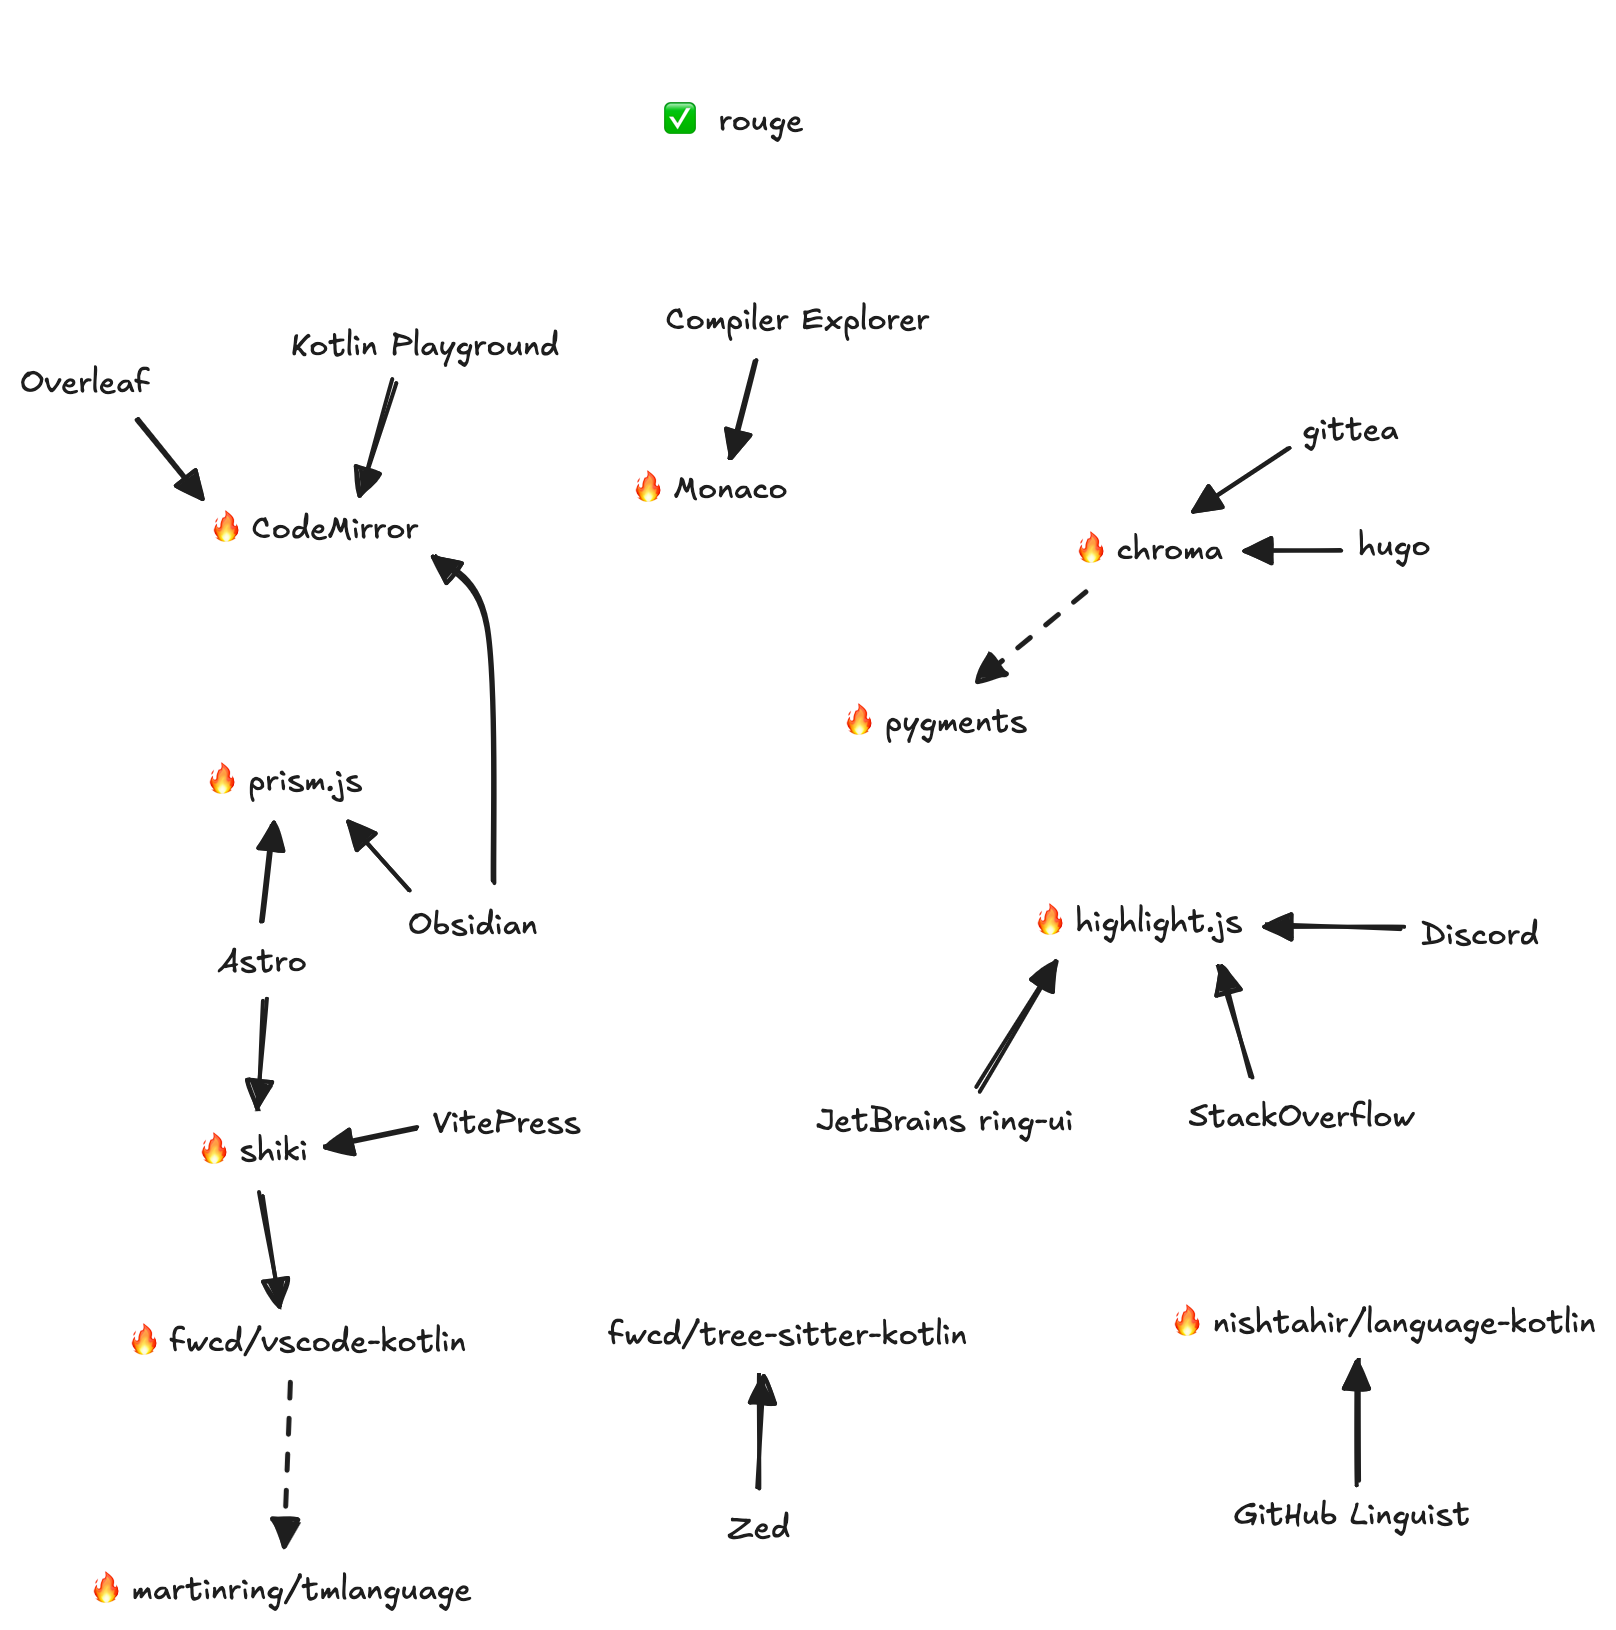
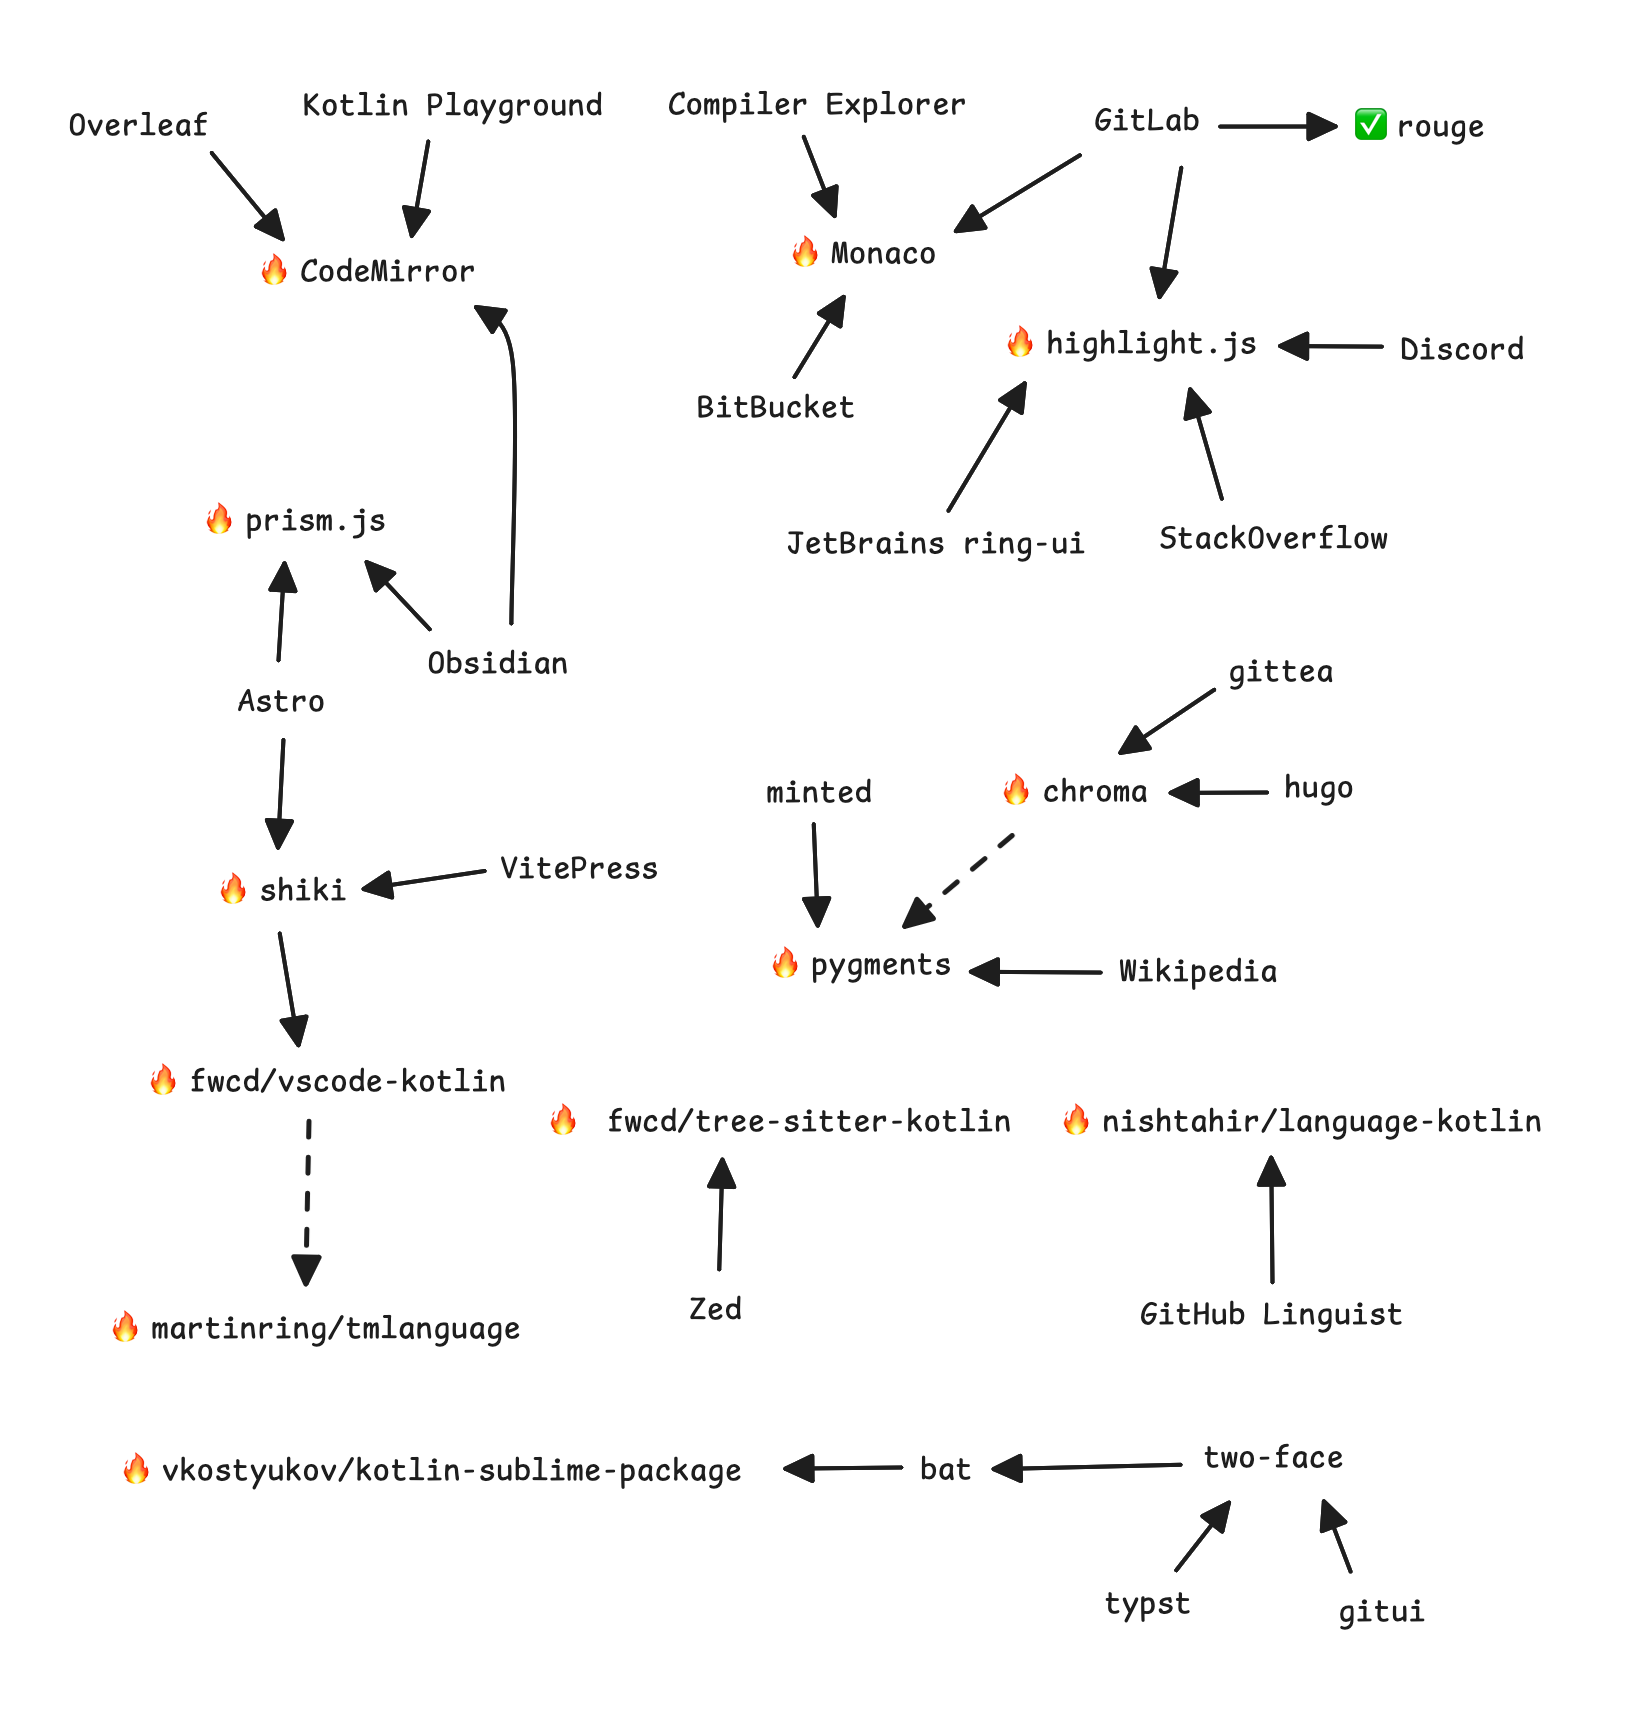
Publish kotlin post

diff --git a/posts/50-shades-of-kotlin/post.md b/posts/50-shades-of-kotlin/post.md
@@ -1,16 +1,17 @@
 ---
 title: 50uL Shades of Kotlin: Why your numbers long for color
-date: 2025-09-04
+date: 2025-09-09
 image: some_image_for_social_preview.png
 description: This is just a new post.
-draft: true
 ---
 
 Recently I was investigating some bug in my branch of the Kotlin compiler and suddenly I had a hunch that my code probably was confused by some inlining. So to quickly verify that idea, my muscle memory rushed me to the already open tab of [*Compiler Explorer*](https://godbolt.org/).
 
+> **🦜 Chirpy the Parrot:** Compiler Explorer (formerly Godbolt) is a tool that let's you try out different compilers and inspect the assembly, JVM Bytecode etc that they produce.
+
 So I pasted the code, Kotlin target already preselected from a long forgotten past experiment and – *Huh*, Compiler Explorer doesn't correctly highlight my code.
 
-That's weird, the code is correct, the compiler ran, I see the bytecode that confirms that inlining takes place which will be a cause for many future headaches but I already don't care about that anymore. Why doesn't Godbolt correctly highlight `3uL`?
+That's weird, the code is correct, the compiler ran, I see the bytecode that confirms that inlining takes place which will be a cause for many future headaches but I already don't care about that anymore. Why doesn't Compiler Explorer correctly highlight `3uL`?
 
 Well at least there is still the trusty [Kotlin Playground](https://play.kotlinlang.org/), let's paste it in there and voilà – _WHAT?_ Even that doesn't highlight the suffix?
 
@@ -77,7 +78,7 @@ val fixned = 123l   // Error: Use 'L' instead of 'l'.
 
 Well well well, guess who relied on an open-source solution for his blog's code highlighting?
 
-Since Kotlin 1.1 you can also use underscores inside nunbers to seperate them (but they must appear in the middle):
+Since Kotlin 1.1 you can also use underscores inside numbers to separate them (but they must appear in the middle):
 
 ```kotlin
 val million = 1_000_000
@@ -103,7 +104,7 @@ val twoZeros = 00
 val may = 05
 ```
 
-We're almost done, but floating points can also directly start with a dot or can contain the _E Noation_.
+We're almost done, but floating points can also directly start with a dot or can contain the _E Notation_.
 
 ```kotlin
 val x = .123
@@ -160,38 +161,41 @@ As a next reasonable step I went on a fever-dream like rampage pasting that snip
 
 Actually, this reminds me of another point, if you ever find yourself maintaining a highlighter 1) Congratulation 2) good luck with rejecting a never-ending stream of unsolicited PRs for languages with a single digit userbase, even when represented in binary format and 3) please let me try your library in the browser. With the current state of WASM and basically free hosting with GitHub pages there is almost no excuses not to. I know that it might be impractically slow and the bundle might be too large for production-use but when I'm _shopping_ for a highlighter my first priority is it's quality and an interactive demo lets me figure that out so much faster.
 
-After the initial high of pasting that code into everything I walked away with two realizations. First, almost everyone has problems. And second, while there are a lot of editors, libraries, tools and websites that do highlighting, there aren't _that_ many sources that reimplement a parser for Kotlin.
+After the initial high of pasting that code into everything I could think of, I walked away with two realizations. First, almost every highlighter struggles with Kotlin's numbers. And second, while there are a lot of editors, libraries, tools and websites that do highlighting, there aren't _that_ many sources that reimplement a parser for Kotlin.
 
-The more obvious examples are Discord or StackOverflow that both rely on a library to do the highlighting (in that case highlight.js). But then there are some libraries that ingest a textmate grammar or treesitter grammar. Or one golang library that has a tool that can parse python code from pygments (another library) to generate grammar definition in a custom XML file format (kinda crazy but I love it).
+The more obvious examples are Discord or StackOverflow that both rely on a library to do the highlighting (in that case highlight.js). But then there are some libraries that ingest a textmate grammar or treesitter grammar. Or the one golang library _chroma_ that has a tool that can parse python code from _pygments_ to generate grammar definition in a custom XML file format (kinda crazy but I love it).
 
 So to get a overview how all of this relates to each other I crafted that following graph of popular libraries and some of my favorite tools:
 
 ![Graph](graph.png)
-(_Temporary image, final one will be with icons and co_)
-
-<!-- So from the rules above I patched together a simple file with a handful of test cases and pasted it into any highlighting library I could get my hands on. Which in the end allowed me to produce this little gallery of bad highlights.
- -->
-<!-- _TODO_
-
-- CodeMirror
-- Monaco
-- highlight.js
-- prism.js
-- rainbow.js
-- pygments
-- rouge (is good)
-- treesiter
-- shiki
-- sublime text
-- bat -->
 
 ## All numbers have the literal right to be highlighted
 
-_Maybe start with a note why highlighting is even important? A first line of defesnse against wrong code?_
+I know overall this is somewhat of a minor problem, the notations are somewhat rare and even without correct highlighting you can still read the code and get the point. However, I do think of it as a first line of defense against bad code. I actually vividly remember the first time I started coding and being pleasantly surprised how _friendly_ the code editor looked with all it's colors. Especially as a beginner when you're unsure with every keystroke you type, it makes such a difference when the correct keywords light up in another color to tell you that you are on the right path.
 
 > **🦜 Chirpy the Parrot:** So you found a minor systemic bug nobody really cares about, what ya gonnna do about it?
 
 I guess it's time to get our hands dirty and write some code.
+
+<!-- Monaco story continued -->
+We need to start somewhere, so let's teach Monaco, and once the fixed version is published Compiler Explorer, how to correctly highlight numbers. Luckily it is hosted on GitHub, which makes sense since both are Microsoft products, though screenshot of the outdated Firefox in the README makes me chuckle a bit. But this means we can use the search for any reference of Kotlin in the repo, before we even decide to clone it.
+
+The search reveals a couple of files, where `src/basic-languages/kotlin/kotlin.ts` looks the most promising and after we scroll through the contents that look suspiciously like a custom grammar format for a parser, we find the following lines.
+
+```typescript
+// numbers
+[/(@digits)[eE]([\-+]?(@digits))?[fFdD]?/, 'number.float'],
+[/(@digits)\.(@digits)([eE][\-+]?(@digits))?[fFdD]?/, 'number.float'],
+[/0[xX](@hexdigits)[Ll]?/, 'number.hex'],
+[/0(@octaldigits)[Ll]?/, 'number.octal'],
+[/0[bB](@binarydigits)[Ll]?/, 'number.binary'],
+[/(@digits)[fFdD]/, 'number.float'],
+[/(@digits)[lL]?/, 'number'],
+```
+
+Even on a quick look we can find handling for number suffixes but no mention of a `u` but instead the forbidden lowercase `l` and `d` or `D` which Java uses for double literals.
+
+The repo cloned and after some struggling a test setup, we can finally play with tweaking the regex until accepts all valid inputs. Setting up the development environment was a bit frustrating as the CLI command didn't mentioned didn't use the updated syntax files and so eventually I gave up and opened the repository in VSCode where the launch config worked on the first try (but why did it open the tool in Chrome, when Firefox is my default browser).
 
 While we already have a regex that we can apply for correct lexing and most highlighters use regex for this part, it isn't as easy as just pasting that in an opening a PR. To help out the maintainers reviewing the changes it makes much more sense to see what's already there and if only a single edge-case is missing we'll try to be the good surgon we always knew we could be and only do least invasive procedure necessary.
 
@@ -208,19 +212,14 @@ val partial = 1_
 val partialOct = 0x
 ```
 
-For such behaivor I decided on a case by case basis what the current status qou was in each project.
+So with the Koltin parser extended I also added some testcases to verify that everything keeps working correctly and opened my PR.
 
-Finally we end up with a short list of completed PRs – that I'll now promise to keep updating but more likely will eventually forget – and a longer backlog for eventual _nerd-sniping_:
+The process for other highlighters was quite similar so that we finally end up with a short list of completed PRs – that I'll now promise to keep updating but will most likely eventually forget:
 
 - [Monaco](https://github.com/microsoft/monaco-editor/pull/4973)
 - [CodeMirror](https://github.com/codemirror/legacy-modes/pull/23)
 - [highlight.js](https://github.com/highlightjs/highlight.js/pull/4307)
 - [Pygments](https://github.com/pygments/pygments/pull/2961)
-- _prism.js_
-- _treesiter_
-- _shiki_
-- _sublime text_
-- _bat_
 
 > **🦜 Chirpy the Parrot:** So what did they get wrong about Kotlin's number parsing?
 
@@ -246,3 +245,4 @@ I want to take this space of unused internet realestate to thank my friends for 
 
 
 🦋 [Comment on Bluesky](www.orf.at)
+<!-- *Comment on 🦋 [Bluesky](www.orf.at)* -->
